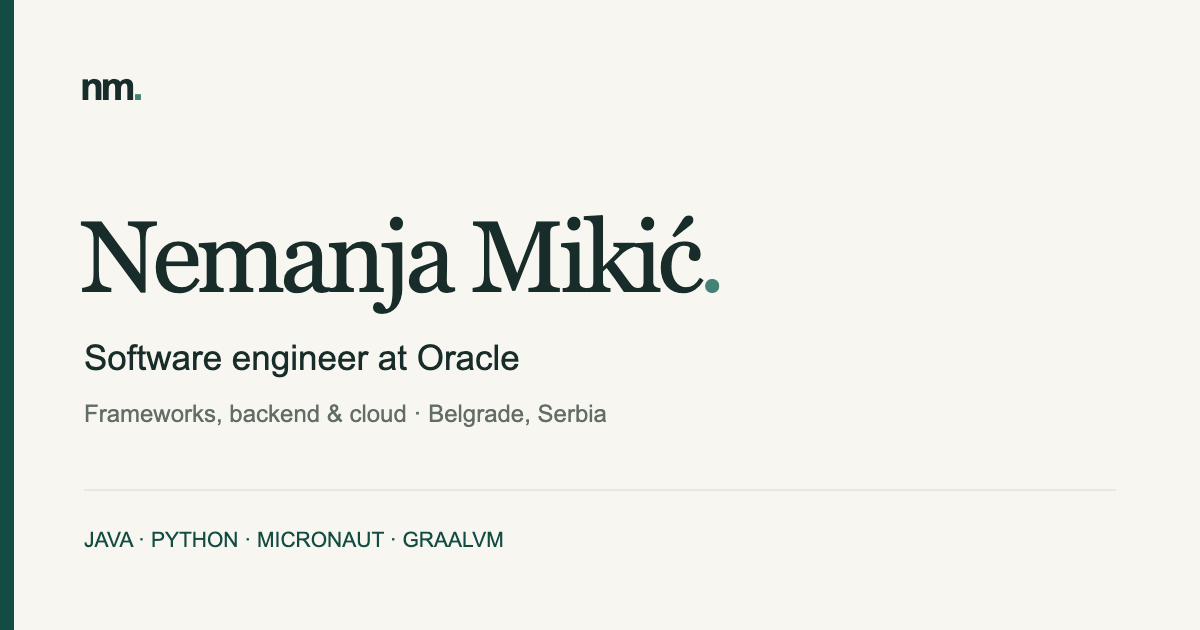
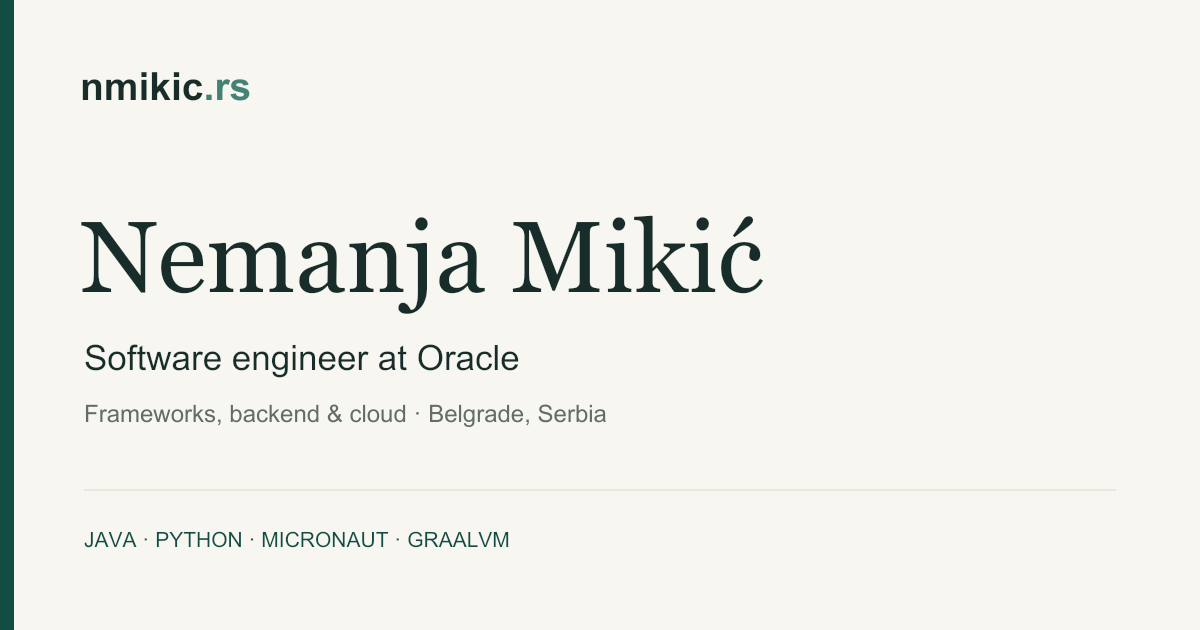
Align portfolio branding with nmikic.rs

diff --git a/site/styles.css b/site/styles.css
@@ -20,7 +20,7 @@ ul { padding-left:1.15rem; }
 .eyebrow { text-transform:uppercase; font-size:12px; font-weight:650; letter-spacing:.16em; line-height:1.5; }
 .small-muted { color:var(--muted); font-size:13px; }
 .site-header { display:flex; align-items:center; min-height:108px; gap:24px; border-bottom:1px solid var(--line); }
-.wordmark { font-size:32px; font-weight:750; letter-spacing:-.1em; line-height:1; }
+.wordmark { flex-shrink:0; font-size:32px; font-weight:750; letter-spacing:-.055em; line-height:1; white-space:nowrap; }
 .wordmark span { color:var(--accent); }
 .wordmark:hover { text-decoration:none; }
 .site-header nav { display:flex; gap:28px; margin-left:auto; }
@@ -199,6 +199,11 @@ h3 { font-size:18px; line-height:1.4; font-weight:550; letter-spacing:-.025em; }
 .privacy-page a { text-decoration:underline; }
 @media (min-width:1440px) { .hero { column-gap:130px; } }
 @media (max-width:1000px) { .wrap { width:calc(100% - 64px); } .site-header { gap:24px; } .site-header nav { gap:18px; } .header-cv { padding-left:20px; } .hero { column-gap:45px; grid-template-columns:minmax(0,1fr) 220px; } h1 { font-size:92px; } .hero-description { font-size:14px; } .contact-layout { gap:45px; } .career-row { grid-template-columns:165px 1fr; gap:30px; } }
+@media (max-width:1100px) {
+  .site-header { flex-wrap:wrap; gap:16px; padding-block:20px; }
+  .site-header nav { order:3; width:100%; justify-content:space-between; border-top:1px solid var(--line); padding-top:15px; }
+  .header-cv { margin-left:auto; border:0; padding-left:0; }
+}
 @media (max-width:720px) {
   .wrap { width:calc(100% - 40px); }
   .site-header { min-height:82px; gap:12px; flex-wrap:wrap; padding-block:20px; }
@@ -276,6 +281,14 @@ h3 { font-size:18px; line-height:1.4; font-weight:550; letter-spacing:-.025em; }
   .site-footer > a:last-child { display:none; }
   .privacy-page { padding-block:40px; }
   .privacy-page h1 { font-size:47px; }
+}
+@media (max-width:480px) {
+  .site-header { display:grid; grid-template-columns:minmax(0,1fr) auto; }
+  .site-header .header-cv { grid-column:2; grid-row:1; }
+  .site-header .language-switch { justify-self:start; }
+  .site-header .theme-toggle { grid-column:2; grid-row:2; justify-self:end; }
+  .site-header nav { grid-column:1/-1; grid-row:3; }
+  .site-footer p { flex-basis:100%; text-align:left; }
 }
 @media (max-width:360px) { h1 { font-size:72px; } .contact-intro h2 { font-size:40px; } }
 @media (prefers-reduced-motion:reduce) { html { scroll-behavior:auto; } * { transition:none!important; } }

diff --git a/site/sr/privacy.html b/site/sr/privacy.html
@@ -1,6 +1,6 @@
 <!doctype html>
-<html lang="sr-Latn"><head><meta charset="utf-8"><meta name="viewport" content="width=device-width, initial-scale=1"><meta name="theme-color" content="#f7f6f0"><meta name="robots" content="noindex"><meta name="referrer" content="strict-origin-when-cross-origin"><meta http-equiv="Content-Security-Policy" content="default-src &#x27;self&#x27;; script-src &#x27;self&#x27;; style-src &#x27;self&#x27;; base-uri &#x27;self&#x27;; object-src &#x27;none&#x27;"><title>Privatnost — Nemanja Mikić</title><link rel="icon" href="../favicon.svg" type="image/svg+xml"><script src="../theme.js"></script><link rel="stylesheet" href="../styles.css"></head>
-<body><header class="site-header wrap"><a class="wordmark" href="./" aria-label="nm. — Nemanja Mikić, početna strana">nm<span>.</span></a><a class="header-cv" href="./#contact">Nazad na kontakt ↗</a>    <div class="language-switch" role="group" aria-label="Jezik">
+<html lang="sr-Latn"><head><meta charset="utf-8"><meta name="viewport" content="width=device-width, initial-scale=1"><meta name="theme-color" content="#f7f6f0"><meta name="robots" content="noindex"><meta name="referrer" content="strict-origin-when-cross-origin"><meta http-equiv="Content-Security-Policy" content="default-src &#x27;self&#x27;; script-src &#x27;self&#x27;; style-src &#x27;self&#x27;; base-uri &#x27;self&#x27;; object-src &#x27;none&#x27;"><title>Privatnost — Nemanja Mikić</title><link rel="icon" href="../favicon.svg?v=nm" type="image/svg+xml"><script src="../theme.js"></script><link rel="stylesheet" href="../styles.css"></head>
+<body><header class="site-header wrap"><a class="wordmark" href="./" aria-label="nmikic.rs — Nemanja Mikić, početna strana">nmikic<span>.rs</span></a><a class="header-cv" href="./#contact">Nazad na kontakt ↗</a>    <div class="language-switch" role="group" aria-label="Jezik">
       <a href="../privacy.html" lang="en" hreflang="en" aria-label="English">EN</a>
       <a href="./privacy.html" lang="sr-Latn" hreflang="sr-Latn" aria-label="Srpski" aria-current="page">SR</a>
     </div>

diff --git a/site/privacy.html b/site/privacy.html
@@ -1,6 +1,6 @@
 <!doctype html>
-<html lang="en"><head><meta charset="utf-8"><meta name="viewport" content="width=device-width, initial-scale=1"><meta name="theme-color" content="#f7f6f0"><meta name="robots" content="noindex"><meta name="referrer" content="strict-origin-when-cross-origin"><meta http-equiv="Content-Security-Policy" content="default-src 'self'; script-src 'self'; style-src 'self'; base-uri 'self'; object-src 'none'"><title>Privacy — Nemanja Mikić</title><link rel="icon" href="favicon.svg" type="image/svg+xml"><script src="theme.js"></script><link rel="stylesheet" href="styles.css"></head>
-<body><header class="site-header wrap"><a class="wordmark" href="./" aria-label="nm. — Nemanja Mikić, home">nm<span>.</span></a><a class="header-cv" href="./#contact">Back to contact ↗</a>    <div class="language-switch" role="group" aria-label="Language">
+<html lang="en"><head><meta charset="utf-8"><meta name="viewport" content="width=device-width, initial-scale=1"><meta name="theme-color" content="#f7f6f0"><meta name="robots" content="noindex"><meta name="referrer" content="strict-origin-when-cross-origin"><meta http-equiv="Content-Security-Policy" content="default-src 'self'; script-src 'self'; style-src 'self'; base-uri 'self'; object-src 'none'"><title>Privacy — Nemanja Mikić</title><link rel="icon" href="favicon.svg?v=nm" type="image/svg+xml"><script src="theme.js"></script><link rel="stylesheet" href="styles.css"></head>
+<body><header class="site-header wrap"><a class="wordmark" href="./" aria-label="nmikic.rs — Nemanja Mikić, home">nmikic<span>.rs</span></a><a class="header-cv" href="./#contact">Back to contact ↗</a>    <div class="language-switch" role="group" aria-label="Language">
       <a href="./privacy.html" lang="en" hreflang="en" aria-label="English" aria-current="page">EN</a>
       <a href="sr/privacy.html" lang="sr-Latn" hreflang="sr-Latn" aria-label="Srpski">SR</a>
     </div>

diff --git a/site/sr/index.html b/site/sr/index.html
@@ -112,7 +112,7 @@
     ]
   }
   </script>
-  <link rel="icon" href="../favicon.svg" type="image/svg+xml">
+  <link rel="icon" href="../favicon.svg?v=nm" type="image/svg+xml">
   <link rel="preload" href="../fonts/newsreader-regular.woff2" as="font" type="font/woff2" crossorigin>
   <link rel="preload" href="../fonts/newsreader-italic.woff2" as="font" type="font/woff2" crossorigin>
   <link rel="preload" href="../fonts/inter.woff2" as="font" type="font/woff2" crossorigin>
@@ -124,7 +124,7 @@
 <body>
   <a class="skip-link" href="#main">Pređi na sadržaj</a>
   <header class="site-header wrap">
-    <a class="wordmark" href="#" aria-label="nm. — Nemanja Mikić, početna strana">nm<span>.</span></a>
+    <a class="wordmark" href="#" aria-label="nmikic.rs — Nemanja Mikić, početna strana">nmikic<span>.rs</span></a>
     <nav aria-label="Glavna navigacija">
       <a href="#work">Rad</a>
       <a href="#experience">Iskustvo</a>
@@ -345,7 +345,7 @@
         </form>
       </div></section>
   </main>
-  <footer class="site-footer wrap"><a class="wordmark" href="#" aria-label="nm. — Nazad na vrh">nm<span>.</span></a><p>Nemanja Mikić <span>© <span id="year">2026</span></span></p><a href="#main">Nazad na vrh <span aria-hidden="true">↑</span></a></footer>
+  <footer class="site-footer wrap"><a class="wordmark" href="#" aria-label="nmikic.rs — Nazad na vrh">nmikic<span>.rs</span></a><p>Nemanja Mikić <span>© <span id="year">2026</span></span></p><a href="#main">Nazad na vrh <span aria-hidden="true">↑</span></a></footer>
   <script type="module" src="https://static.cloudflareinsights.com/beacon.min.js" data-cf-beacon="{&quot;token&quot;:&quot;b222550edcda40eabc8ba7fec7277089&quot;}"></script>
 </body>
 </html>

diff --git a/site/index.html b/site/index.html
@@ -69,7 +69,7 @@
     ]
   }
   </script>
-  <link rel="icon" href="favicon.svg" type="image/svg+xml">
+  <link rel="icon" href="favicon.svg?v=nm" type="image/svg+xml">
   <link rel="preload" href="fonts/newsreader-regular.woff2" as="font" type="font/woff2" crossorigin>
   <link rel="preload" href="fonts/newsreader-italic.woff2" as="font" type="font/woff2" crossorigin>
   <link rel="preload" href="fonts/inter.woff2" as="font" type="font/woff2" crossorigin>
@@ -81,7 +81,7 @@
 <body>
   <a class="skip-link" href="#main">Skip to content</a>
   <header class="site-header wrap">
-    <a class="wordmark" href="#" aria-label="nm. — Nemanja Mikić, home">nm<span>.</span></a>
+    <a class="wordmark" href="#" aria-label="nmikic.rs — Nemanja Mikić, home">nmikic<span>.rs</span></a>
     <nav aria-label="Main navigation">
       <a href="#work">Work</a>
       <a href="#experience">Experience</a>
@@ -302,7 +302,7 @@
         </form>
       </div></section>
   </main>
-  <footer class="site-footer wrap"><a class="wordmark" href="#" aria-label="nm. — Back to top">nm<span>.</span></a><p>Nemanja Mikić <span>© <span id="year">2026</span></span></p><a href="#main">Back to top <span aria-hidden="true">↑</span></a></footer>
+  <footer class="site-footer wrap"><a class="wordmark" href="#" aria-label="nmikic.rs — Back to top">nmikic<span>.rs</span></a><p>Nemanja Mikić <span>© <span id="year">2026</span></span></p><a href="#main">Back to top <span aria-hidden="true">↑</span></a></footer>
   <script type="module" src="https://static.cloudflareinsights.com/beacon.min.js" data-cf-beacon='{"token":"b222550edcda40eabc8ba7fec7277089"}'></script>
 </body>
 </html>
